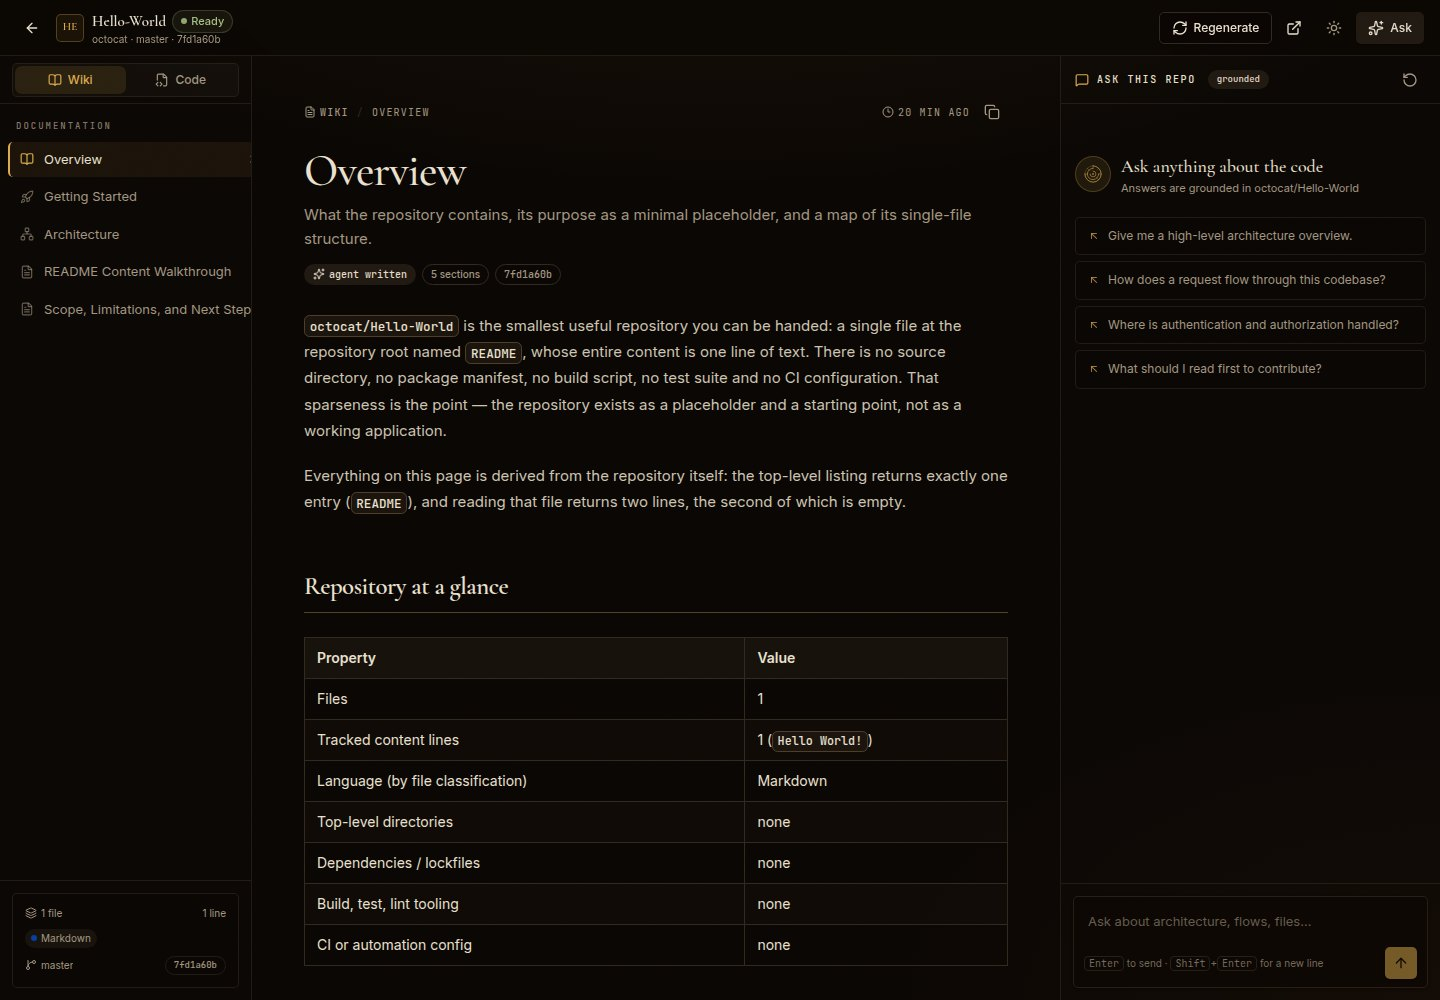
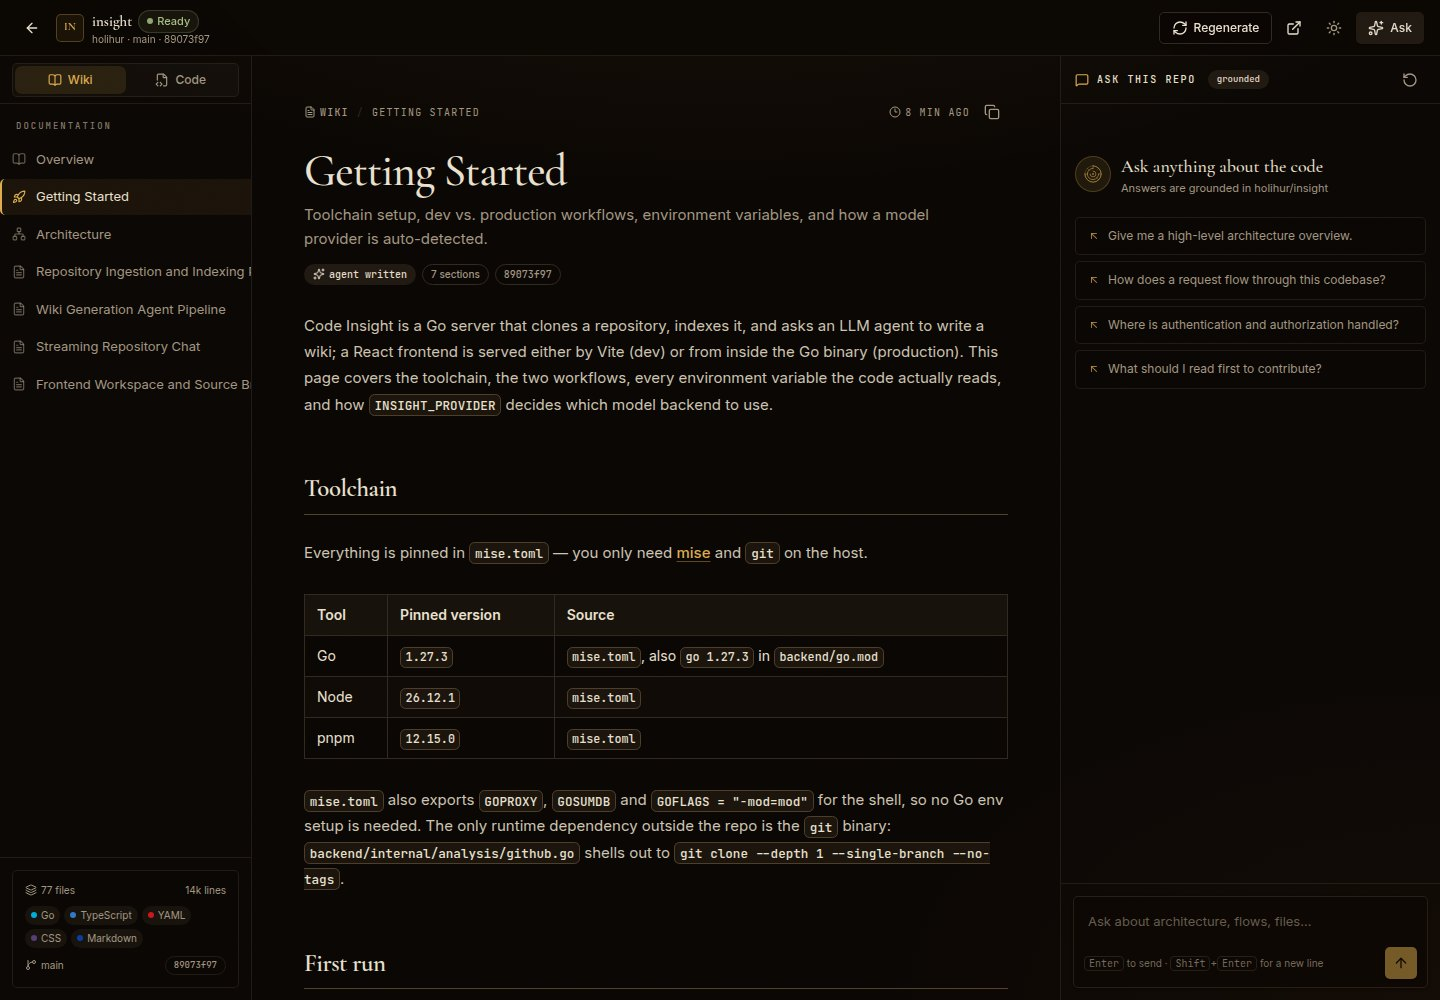
docs: show Code Insight analyzing its own repository

diff --git a/README.md b/README.md
@@ -17,6 +17,8 @@
 
 ![仓库 Wiki 页面](docs/screenshot-repo.jpg)
 
+> 上面的仓库页面就是 **Code Insight 分析它自己的仓库** 后生成的。
+
 ## 快速开始
 
 需要 [mise](https://mise.jdx.dev/) 和 `git`。
